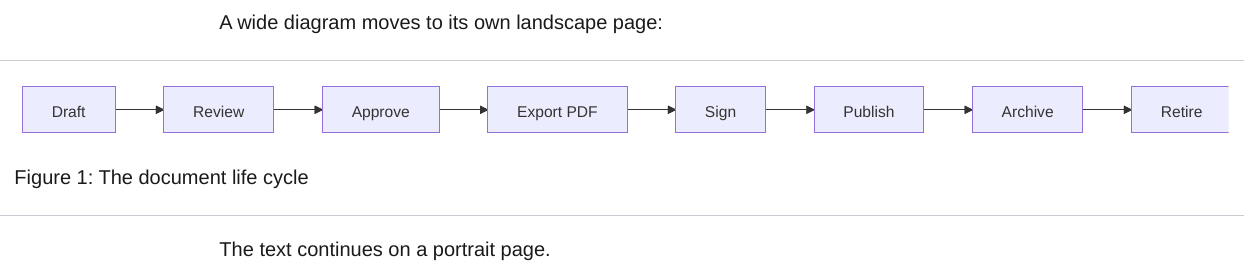
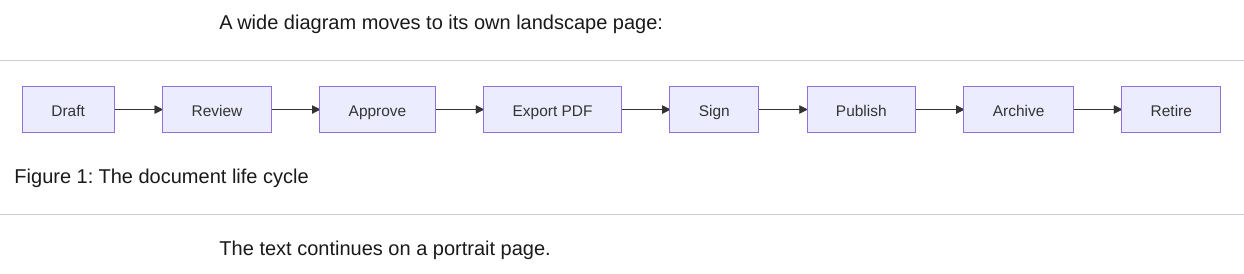
Regenerate the Mermaid screenshots and drop the note about #69

diff --git a/docs/obsidian/mermaid.md b/docs/obsidian/mermaid.md
@@ -57,7 +57,7 @@ ope export ./Notes -O mermaid.config=mermaid.json
 
 A diagram keeps its natural size and only shrinks when it is wider than the text. `mermaid.max_height` scales down taller ones. Other sizes belong in the template's CSS: every diagram has the classes `doc-image`, `mermaid` and `mermaid-<type>`, see [CSS reference](../templating/css-reference.md#mermaid-diagrams).
 
-Mermaid leaves empty space around some diagram types. ope trims it to a margin of 8 px. PNG images are cropped. For SVG, mermaid-cli renders a second, transparent PNG to find the visible area, and ope shrinks the `viewBox`. That takes a few seconds, `-O mermaid.trim=off` skips it.
+Mermaid leaves empty space around some diagram types. ope trims it to a margin of 8 px. PNG images are cropped. For SVG, mermaid-cli renders a second, transparent PNG of each diagram at its natural size to find the visible area, strokes included, and ope shrinks the `viewBox`. That takes a few seconds, `-O mermaid.trim=off` skips it.
 
 `%%` comment lines in a block are removed before rendering.
 
@@ -90,9 +90,6 @@ A short paragraph right below the diagram that starts with a word and a number, 
 ope export ./Notes -O mermaid.landscape_ratio=2
 ope export ./Notes -O mermaid.landscape=off
 ```
-
-!!! note
-    In the picture above the right edge of the last box is cut off. That comes from the trimming of empty space ([#69](https://github.com/Spenhouet/obsidian-pdf-exporter/issues/69)); `-O mermaid.trim=off` avoids it.
 
 ## Notes
 
